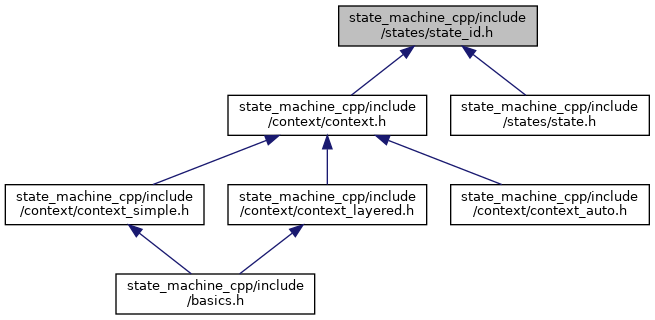
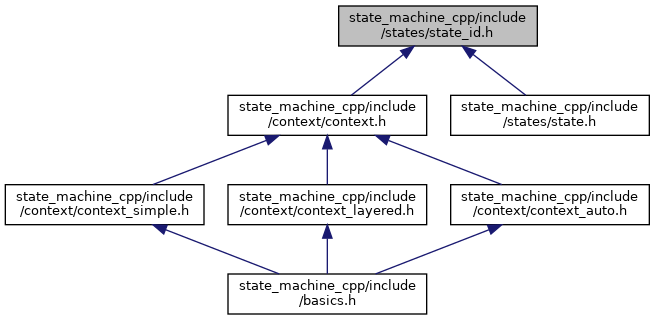
update documentation

diff --git a/docs/basics_8h.html b/docs/basics_8h.html
@@ -93,46 +93,48 @@ $(document).ready(function(){initNavTree('basics_8h.html',''); initResizable(); 
 <code>#include &quot;<a class="el" href="sanity__check_8h_source.html">algorithms/sanity_check.h</a>&quot;</code><br />
 <code>#include &quot;<a class="el" href="context__simple_8h_source.html">context/context_simple.h</a>&quot;</code><br />
 <code>#include &quot;<a class="el" href="context__layered_8h_source.html">context/context_layered.h</a>&quot;</code><br />
+<code>#include &quot;<a class="el" href="context__auto_8h_source.html">context/context_auto.h</a>&quot;</code><br />
 </div><div class="textblock"><div class="dynheader">
 Include dependency graph for basics.h:</div>
 <div class="dyncontent">
 <div class="center"><img src="basics_8h__incl.png" border="0" usemap="#state__machine__cpp_2include_2basics_8h" alt=""/></div>
 <map name="state__machine__cpp_2include_2basics_8h" id="state__machine__cpp_2include_2basics_8h">
-<area shape="rect" title=" " alt="" coords="1003,5,1202,47"/>
-<area shape="rect" href="algorithm_8h.html" title=" " alt="" coords="236,177,407,203"/>
-<area shape="rect" href="build_8h.html" title=" " alt="" coords="701,95,841,121"/>
-<area shape="rect" href="run_8h.html" title=" " alt="" coords="889,341,1018,367"/>
-<area shape="rect" href="plot_8h.html" title=" " alt="" coords="1436,95,1569,121"/>
-<area shape="rect" href="sanity__check_8h.html" title=" " alt="" coords="1594,95,1787,121"/>
-<area shape="rect" href="context__simple_8h.html" title=" " alt="" coords="1009,95,1196,121"/>
-<area shape="rect" href="context__layered_8h.html" title=" " alt="" coords="1220,95,1412,121"/>
-<area shape="rect" title=" " alt="" coords="383,259,441,285"/>
-<area shape="rect" href="transition__any_8h.html" title=" " alt="" coords="256,333,413,375"/>
-<area shape="rect" href="transition__handlers_8h.html" title=" " alt="" coords="437,333,595,375"/>
-<area shape="rect" href="____map_8h.html" title=" " alt="" coords="135,259,246,285"/>
-<area shape="rect" title=" " alt="" coords="415,423,457,449"/>
-<area shape="rect" title=" " alt="" coords="854,423,941,449"/>
-<area shape="rect" title=" " alt="" coords="191,423,254,449"/>
-<area shape="rect" href="state__any_8h.html" title=" " alt="" coords="690,423,830,449"/>
-<area shape="rect" href="____hash_8h.html" title=" " alt="" coords="279,423,391,449"/>
-<area shape="rect" href="state__instance_8h.html" title=" " alt="" coords="695,497,825,524"/>
-<area shape="rect" title=" " alt="" coords="720,572,800,599"/>
-<area shape="rect" href="____comparable_8h.html" title=" " alt="" coords="830,572,989,599"/>
-<area shape="rect" title=" " alt="" coords="5,341,83,367"/>
-<area shape="rect" title=" " alt="" coords="107,341,231,367"/>
-<area shape="rect" href="builder__impl__states_8h.html" title=" " alt="" coords="783,169,935,211"/>
-<area shape="rect" href="builder__impl__transitions_8h.html" title=" " alt="" coords="607,169,759,211"/>
-<area shape="rect" href="builder__impl__layers_8h.html" title=" " alt="" coords="431,169,583,211"/>
-<area shape="rect" href="builder__states_8h.html" title=" " alt="" coords="795,259,922,285"/>
-<area shape="rect" href="builder__indirection_8h.html" title=" " alt="" coords="676,341,831,367"/>
-<area shape="rect" href="builder_8h.html" title=" " alt="" coords="587,423,666,449"/>
-<area shape="rect" href="builder__transitions_8h.html" title=" " alt="" coords="616,259,771,285"/>
-<area shape="rect" href="builder__layers_8h.html" title=" " alt="" coords="465,259,591,285"/>
-<area shape="rect" title=" " alt="" coords="1473,177,1532,203"/>
-<area shape="rect" href="context_8h.html" title=" " alt="" coords="1097,177,1180,203"/>
-<area shape="rect" href="____pointer_8h.html" title=" " alt="" coords="1094,259,1221,285"/>
-<area shape="rect" href="state__id_8h.html" title=" " alt="" coords="849,497,980,524"/>
-<area shape="rect" title=" " alt="" coords="1288,177,1344,203"/>
+<area shape="rect" title=" " alt="" coords="369,5,567,47"/>
+<area shape="rect" href="algorithm_8h.html" title=" " alt="" coords="569,177,740,203"/>
+<area shape="rect" href="build_8h.html" title=" " alt="" coords="953,95,1093,121"/>
+<area shape="rect" href="run_8h.html" title=" " alt="" coords="286,341,415,367"/>
+<area shape="rect" href="plot_8h.html" title=" " alt="" coords="717,95,851,121"/>
+<area shape="rect" href="sanity__check_8h.html" title=" " alt="" coords="439,95,633,121"/>
+<area shape="rect" href="context__simple_8h.html" title=" " alt="" coords="76,95,263,121"/>
+<area shape="rect" href="context__layered_8h.html" title=" " alt="" coords="5,259,197,285"/>
+<area shape="rect" href="context__auto_8h.html" title=" " alt="" coords="389,259,561,285"/>
+<area shape="rect" title=" " alt="" coords="847,259,905,285"/>
+<area shape="rect" href="transition__any_8h.html" title=" " alt="" coords="741,333,899,375"/>
+<area shape="rect" href="transition__handlers_8h.html" title=" " alt="" coords="923,333,1080,375"/>
+<area shape="rect" href="____map_8h.html" title=" " alt="" coords="599,259,710,285"/>
+<area shape="rect" title=" " alt="" coords="812,423,855,449"/>
+<area shape="rect" title=" " alt="" coords="477,423,563,449"/>
+<area shape="rect" title=" " alt="" coords="589,423,651,449"/>
+<area shape="rect" href="state__any_8h.html" title=" " alt="" coords="935,423,1075,449"/>
+<area shape="rect" href="____hash_8h.html" title=" " alt="" coords="676,423,788,449"/>
+<area shape="rect" href="state__instance_8h.html" title=" " alt="" coords="941,497,1070,524"/>
+<area shape="rect" title=" " alt="" coords="965,572,1045,599"/>
+<area shape="rect" href="____comparable_8h.html" title=" " alt="" coords="777,572,935,599"/>
+<area shape="rect" title=" " alt="" coords="491,341,568,367"/>
+<area shape="rect" title=" " alt="" coords="593,341,717,367"/>
+<area shape="rect" href="builder__impl__states_8h.html" title=" " alt="" coords="1199,169,1351,211"/>
+<area shape="rect" href="builder__impl__transitions_8h.html" title=" " alt="" coords="1023,169,1175,211"/>
+<area shape="rect" href="builder__impl__layers_8h.html" title=" " alt="" coords="847,169,999,211"/>
+<area shape="rect" href="builder__states_8h.html" title=" " alt="" coords="1118,259,1245,285"/>
+<area shape="rect" href="builder__indirection_8h.html" title=" " alt="" coords="1104,341,1259,367"/>
+<area shape="rect" href="builder_8h.html" title=" " alt="" coords="1127,423,1206,449"/>
+<area shape="rect" href="builder__transitions_8h.html" title=" " alt="" coords="939,259,1093,285"/>
+<area shape="rect" href="builder__layers_8h.html" title=" " alt="" coords="1269,259,1395,285"/>
+<area shape="rect" title=" " alt="" coords="764,177,823,203"/>
+<area shape="rect" href="context_8h.html" title=" " alt="" coords="179,341,261,367"/>
+<area shape="rect" href="____pointer_8h.html" title=" " alt="" coords="258,423,385,449"/>
+<area shape="rect" href="state__id_8h.html" title=" " alt="" coords="785,497,916,524"/>
+<area shape="rect" title=" " alt="" coords="73,341,129,367"/>
 </map>
 </div>
 </div>

diff --git a/docs/____comparable_8h.html b/docs/____comparable_8h.html
@@ -94,30 +94,30 @@ This graph shows which files directly or indirectly include this file:</div>
 <div class="dyncontent">
 <div class="center"><img src="____comparable_8h__dep__incl.png" border="0" usemap="#state__machine__cpp_2include_2impl_2____comparable_8hdep" alt=""/></div>
 <map name="state__machine__cpp_2include_2impl_2____comparable_8hdep" id="state__machine__cpp_2include_2impl_2____comparable_8hdep">
-<area shape="rect" title=" " alt="" coords="929,5,1128,47"/>
-<area shape="rect" href="state__id_8h.html" title=" " alt="" coords="1196,184,1395,225"/>
-<area shape="rect" href="state__instance_8h.html" title=" " alt="" coords="861,95,1060,136"/>
-<area shape="rect" href="context_8h.html" title=" " alt="" coords="1403,452,1601,493"/>
-<area shape="rect" href="state_8h.html" title=" " alt="" coords="976,273,1175,315"/>
-<area shape="rect" href="context__simple_8h.html" title=" " alt="" coords="1471,541,1669,583"/>
-<area shape="rect" href="context__layered_8h.html" title=" " alt="" coords="1248,541,1447,583"/>
-<area shape="rect" href="context__auto_8h.html" title=" " alt="" coords="1693,541,1892,583"/>
-<area shape="rect" href="basics_8h.html" title=" " alt="" coords="1112,631,1311,672"/>
-<area shape="rect" href="run_8h.html" title=" " alt="" coords="973,184,1172,225"/>
-<area shape="rect" href="builder_8h.html" title=" " alt="" coords="476,184,675,225"/>
-<area shape="rect" href="state__any_8h.html" title=" " alt="" coords="751,184,949,225"/>
-<area shape="rect" href="builder__layers_8h.html" title=" " alt="" coords="180,273,379,315"/>
-<area shape="rect" href="builder__indirection_8h.html" title=" " alt="" coords="471,273,679,315"/>
-<area shape="rect" href="builder__impl__layers_8h.html" title=" " alt="" coords="5,452,220,493"/>
-<area shape="rect" href="build_8h.html" title=" " alt="" coords="379,541,577,583"/>
-<area shape="rect" href="builder__states_8h.html" title=" " alt="" coords="248,363,447,404"/>
-<area shape="rect" href="builder__transitions_8h.html" title=" " alt="" coords="471,363,679,404"/>
-<area shape="rect" href="builder__impl__states_8h.html" title=" " alt="" coords="244,452,459,493"/>
-<area shape="rect" href="builder__impl__transitions_8h.html" title=" " alt="" coords="483,452,727,493"/>
-<area shape="rect" href="transition__any_8h.html" title=" " alt="" coords="749,273,951,315"/>
-<area shape="rect" href="algorithm_8h.html" title=" " alt="" coords="753,452,952,493"/>
-<area shape="rect" href="____map_8h.html" title=" " alt="" coords="753,363,952,404"/>
-<area shape="rect" href="transition_8h.html" title=" " alt="" coords="976,363,1175,404"/>
+<area shape="rect" title=" " alt="" coords="500,5,699,47"/>
+<area shape="rect" href="state__id_8h.html" title=" " alt="" coords="277,184,476,225"/>
+<area shape="rect" href="state__instance_8h.html" title=" " alt="" coords="611,95,809,136"/>
+<area shape="rect" href="context_8h.html" title=" " alt="" coords="141,452,340,493"/>
+<area shape="rect" href="state_8h.html" title=" " alt="" coords="277,273,476,315"/>
+<area shape="rect" href="context__simple_8h.html" title=" " alt="" coords="5,541,204,583"/>
+<area shape="rect" href="context__layered_8h.html" title=" " alt="" coords="228,541,427,583"/>
+<area shape="rect" href="context__auto_8h.html" title=" " alt="" coords="451,541,649,583"/>
+<area shape="rect" href="basics_8h.html" title=" " alt="" coords="519,631,717,672"/>
+<area shape="rect" href="run_8h.html" title=" " alt="" coords="723,184,921,225"/>
+<area shape="rect" href="builder_8h.html" title=" " alt="" coords="945,184,1144,225"/>
+<area shape="rect" href="state__any_8h.html" title=" " alt="" coords="500,184,699,225"/>
+<area shape="rect" href="builder__layers_8h.html" title=" " alt="" coords="1279,273,1477,315"/>
+<area shape="rect" href="builder__indirection_8h.html" title=" " alt="" coords="907,273,1115,315"/>
+<area shape="rect" href="builder__impl__layers_8h.html" title=" " alt="" coords="1367,452,1581,493"/>
+<area shape="rect" href="build_8h.html" title=" " alt="" coords="995,541,1193,583"/>
+<area shape="rect" href="builder__states_8h.html" title=" " alt="" coords="880,363,1079,404"/>
+<area shape="rect" href="builder__transitions_8h.html" title=" " alt="" coords="1110,363,1318,404"/>
+<area shape="rect" href="builder__impl__states_8h.html" title=" " alt="" coords="860,452,1075,493"/>
+<area shape="rect" href="builder__impl__transitions_8h.html" title=" " alt="" coords="1099,452,1343,493"/>
+<area shape="rect" href="transition__any_8h.html" title=" " alt="" coords="501,273,703,315"/>
+<area shape="rect" href="algorithm_8h.html" title=" " alt="" coords="364,452,563,493"/>
+<area shape="rect" href="____map_8h.html" title=" " alt="" coords="364,363,563,404"/>
+<area shape="rect" href="transition_8h.html" title=" " alt="" coords="587,363,785,404"/>
 </map>
 </div>
 </div>

diff --git a/docs/basics_8h_source.html b/docs/basics_8h_source.html
@@ -105,13 +105,15 @@ $(document).ready(function(){initNavTree('basics_8h_source.html',''); initResiza
 <div class="line"><a name="l00017"></a><span class="lineno">   17</span>&#160; </div>
 <div class="line"><a name="l00018"></a><span class="lineno">   18</span>&#160;<span class="preprocessor">#include &quot;<a class="code" href="context__simple_8h.html">context/context_simple.h</a>&quot;</span></div>
 <div class="line"><a name="l00019"></a><span class="lineno">   19</span>&#160;<span class="preprocessor">#include &quot;<a class="code" href="context__layered_8h.html">context/context_layered.h</a>&quot;</span></div>
-<div class="line"><a name="l00020"></a><span class="lineno">   20</span>&#160; </div>
-<div class="line"><a name="l00021"></a><span class="lineno">   21</span>&#160;<span class="preprocessor">#endif //STATE_MACHINE_CPP_BASICS_H</span></div>
+<div class="line"><a name="l00020"></a><span class="lineno">   20</span>&#160;<span class="preprocessor">#include &quot;<a class="code" href="context__auto_8h.html">context/context_auto.h</a>&quot;</span></div>
+<div class="line"><a name="l00021"></a><span class="lineno">   21</span>&#160; </div>
+<div class="line"><a name="l00022"></a><span class="lineno">   22</span>&#160;<span class="preprocessor">#endif //STATE_MACHINE_CPP_BASICS_H</span></div>
 </div><!-- fragment --></div><!-- contents -->
 </div><!-- doc-content -->
 <div class="ttc" id="acontext__simple_8h_html"><div class="ttname"><a href="context__simple_8h.html">context_simple.h</a></div></div>
 <div class="ttc" id="aalgorithm_8h_html"><div class="ttname"><a href="algorithm_8h.html">algorithm.h</a></div></div>
 <div class="ttc" id="asanity__check_8h_html"><div class="ttname"><a href="sanity__check_8h.html">sanity_check.h</a></div></div>
+<div class="ttc" id="acontext__auto_8h_html"><div class="ttname"><a href="context__auto_8h.html">context_auto.h</a></div></div>
 <div class="ttc" id="arun_8h_html"><div class="ttname"><a href="run_8h.html">run.h</a></div></div>
 <div class="ttc" id="abuild_8h_html"><div class="ttname"><a href="build_8h.html">build.h</a></div></div>
 <div class="ttc" id="acontext__layered_8h_html"><div class="ttname"><a href="context__layered_8h.html">context_layered.h</a></div></div>

diff --git a/docs/dir_000003_000006.html b/docs/dir_000003_000006.html
@@ -82,7 +82,7 @@ $(document).ready(function(){initNavTree('dir_c89b31bf2fae02b1dd53ae3af05cc2d2.h
 </div>
 
 <div class="contents">
-<h3>include &rarr; context Relation</h3><table class="dirtab"><tr class="dirtab"><th class="dirtab">File in state_machine_cpp/include</th><th class="dirtab">Includes file in state_machine_cpp/include/context</th></tr><tr class="dirtab"><td class="dirtab"><a class="el" href="basics_8h.html">basics.h</a></td><td class="dirtab"><a class="el" href="context__layered_8h.html">context_layered.h</a></td></tr><tr class="dirtab"><td class="dirtab"><a class="el" href="basics_8h.html">basics.h</a></td><td class="dirtab"><a class="el" href="context__simple_8h.html">context_simple.h</a></td></tr></table></div><!-- contents -->
+<h3>include &rarr; context Relation</h3><table class="dirtab"><tr class="dirtab"><th class="dirtab">File in state_machine_cpp/include</th><th class="dirtab">Includes file in state_machine_cpp/include/context</th></tr><tr class="dirtab"><td class="dirtab"><a class="el" href="basics_8h.html">basics.h</a></td><td class="dirtab"><a class="el" href="context__auto_8h.html">context_auto.h</a></td></tr><tr class="dirtab"><td class="dirtab"><a class="el" href="basics_8h.html">basics.h</a></td><td class="dirtab"><a class="el" href="context__layered_8h.html">context_layered.h</a></td></tr><tr class="dirtab"><td class="dirtab"><a class="el" href="basics_8h.html">basics.h</a></td><td class="dirtab"><a class="el" href="context__simple_8h.html">context_simple.h</a></td></tr></table></div><!-- contents -->
 </div><!-- doc-content -->
 <!-- start footer part -->
 <div id="nav-path" class="navpath"><!-- id is needed for treeview function! -->

diff --git a/docs/context__auto_8h.html b/docs/context__auto_8h.html
@@ -107,6 +107,15 @@ Include dependency graph for context_auto.h:</div>
 <area shape="rect" href="____comparable_8h.html" title=" " alt="" coords="305,244,463,271"/>
 </map>
 </div>
+</div><div class="textblock"><div class="dynheader">
+This graph shows which files directly or indirectly include this file:</div>
+<div class="dyncontent">
+<div class="center"><img src="context__auto_8h__dep__incl.png" border="0" usemap="#state__machine__cpp_2include_2context_2context__auto_8hdep" alt=""/></div>
+<map name="state__machine__cpp_2include_2context_2context__auto_8hdep" id="state__machine__cpp_2include_2context_2context__auto_8hdep">
+<area shape="rect" title=" " alt="" coords="5,5,204,47"/>
+<area shape="rect" href="basics_8h.html" title=" " alt="" coords="5,95,204,136"/>
+</map>
+</div>
 </div>
 <p><a href="context__auto_8h_source.html">Go to the source code of this file.</a></p>
 <table class="memberdecls">

diff --git a/docs/dir_c89b31bf2fae02b1dd53ae3af05cc2d2.html b/docs/dir_c89b31bf2fae02b1dd53ae3af05cc2d2.html
@@ -94,7 +94,7 @@ Directory dependency graph for include:</div>
 <area shape="rect" href="dir_1c9a9c5477de61a26881d6f54647cd46.html" title="algorithms" alt="" coords="115,159,207,207"/>
 <area shape="rect" href="dir_000003_000004.html" title="5" alt="" coords="148,131,157,146"/>
 <area shape="rect" href="dir_7bfe616e643461046b6508ec388aa353.html" title="context" alt="" coords="37,255,109,303"/>
-<area shape="rect" href="dir_000003_000006.html" title="2" alt="" coords="87,232,96,246"/>
+<area shape="rect" href="dir_000003_000006.html" title="3" alt="" coords="87,232,96,246"/>
 <area shape="rect" href="dir_2b54efb92f7444ac3c5d1b6f696529d4.html" title="builder" alt="" coords="187,255,259,303"/>
 <area shape="rect" href="dir_000004_000005.html" title="3" alt="" coords="200,227,209,242"/>
 <area shape="rect" href="dir_eddb6bf850fc64c0ff6a6dad32c0d1c2.html" title="impl" alt="" coords="116,447,188,495"/>

diff --git a/docs/state__id_8h.html b/docs/state__id_8h.html
@@ -113,7 +113,7 @@ This graph shows which files directly or indirectly include this file:</div>
 <area shape="rect" href="context__simple_8h.html" title=" " alt="" coords="5,184,204,225"/>
 <area shape="rect" href="context__layered_8h.html" title=" " alt="" coords="228,184,427,225"/>
 <area shape="rect" href="context__auto_8h.html" title=" " alt="" coords="451,184,649,225"/>
-<area shape="rect" href="basics_8h.html" title=" " alt="" coords="116,273,315,315"/>
+<area shape="rect" href="basics_8h.html" title=" " alt="" coords="228,273,427,315"/>
 </map>
 </div>
 </div>

diff --git a/docs/____pointer_8h.html b/docs/____pointer_8h.html
@@ -99,7 +99,7 @@ This graph shows which files directly or indirectly include this file:</div>
 <area shape="rect" href="context__simple_8h.html" title=" " alt="" coords="5,184,204,225"/>
 <area shape="rect" href="context__layered_8h.html" title=" " alt="" coords="228,184,427,225"/>
 <area shape="rect" href="context__auto_8h.html" title=" " alt="" coords="451,184,649,225"/>
-<area shape="rect" href="basics_8h.html" title=" " alt="" coords="116,273,315,315"/>
+<area shape="rect" href="basics_8h.html" title=" " alt="" coords="228,273,427,315"/>
 </map>
 </div>
 </div>

diff --git a/docs/context_8h.html b/docs/context_8h.html
@@ -113,7 +113,7 @@ This graph shows which files directly or indirectly include this file:</div>
 <area shape="rect" href="context__simple_8h.html" title=" " alt="" coords="5,95,204,136"/>
 <area shape="rect" href="context__layered_8h.html" title=" " alt="" coords="228,95,427,136"/>
 <area shape="rect" href="context__auto_8h.html" title=" " alt="" coords="451,95,649,136"/>
-<area shape="rect" href="basics_8h.html" title=" " alt="" coords="116,184,315,225"/>
+<area shape="rect" href="basics_8h.html" title=" " alt="" coords="228,184,427,225"/>
 </map>
 </div>
 </div>
